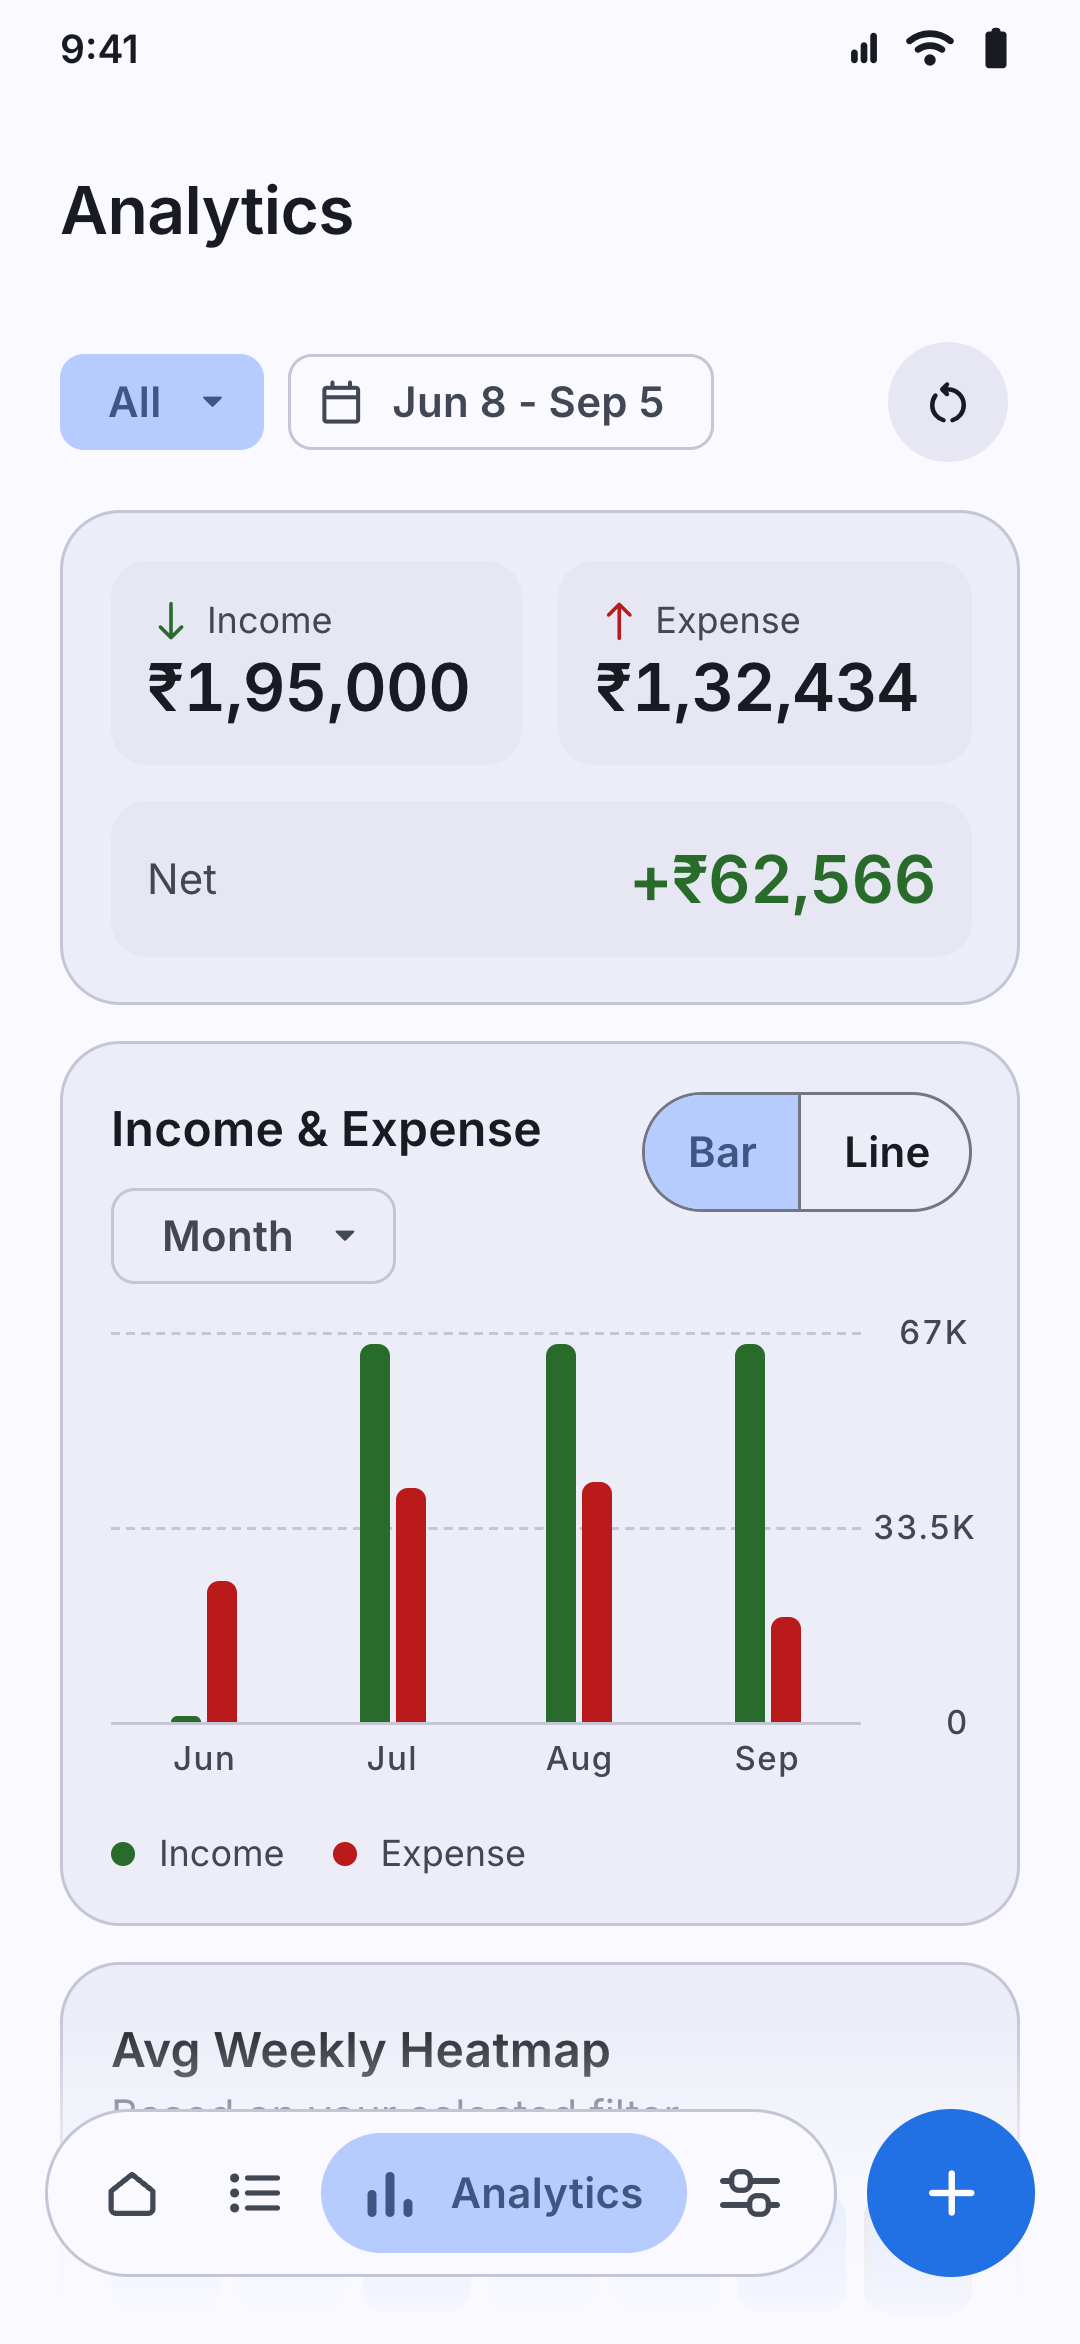
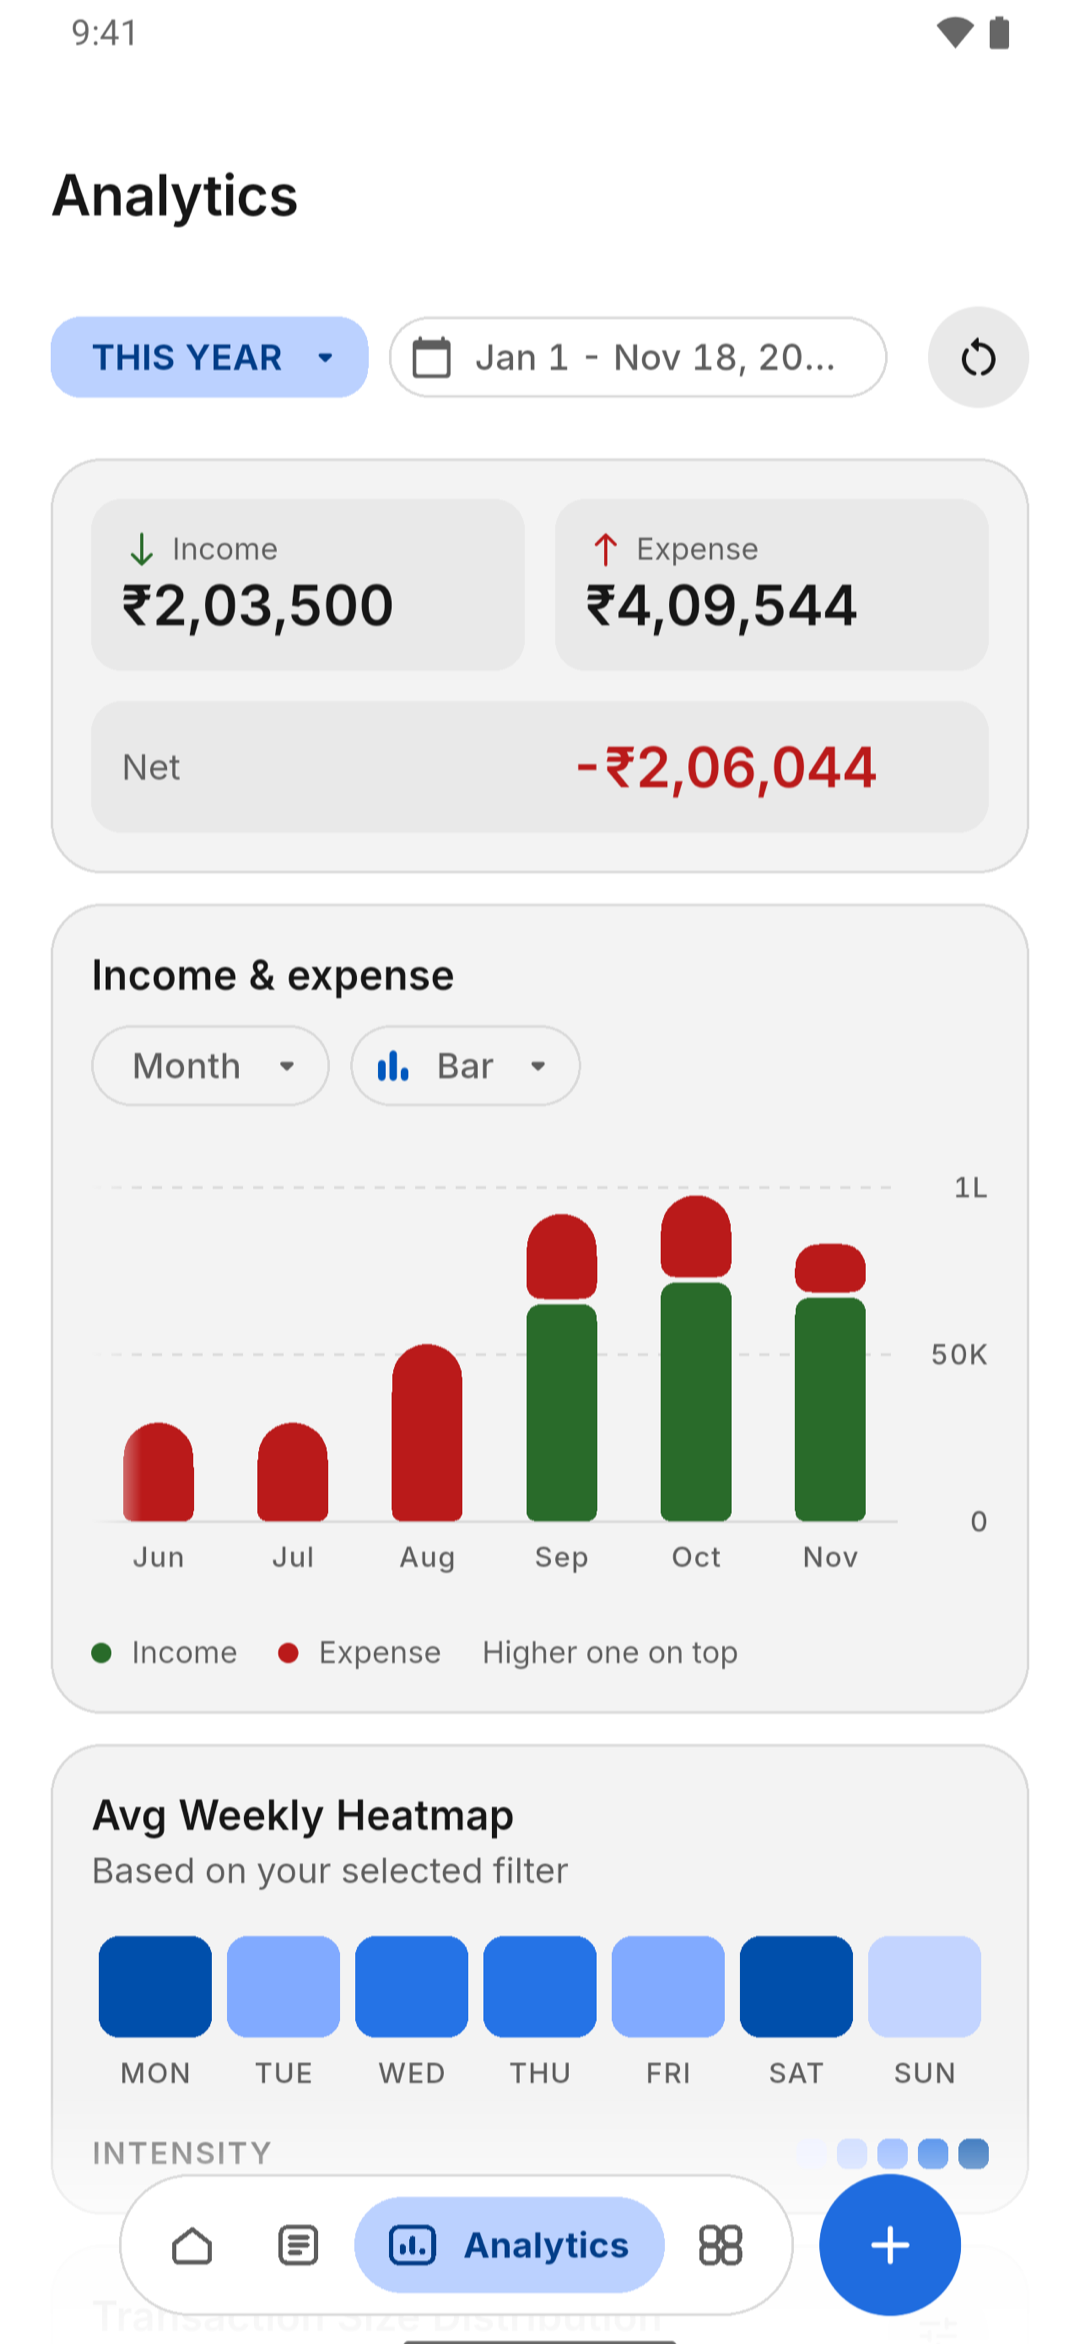
docs(v7.0.0): 7.0.0 release notes, 14-day Pro trial, new Income & expense chart
Changelog entry for 7.0.0+71, Kuber Pro page describes the app's free
trial, Analytics page describes the new chart, with new screenshots.

diff --git a/src/lib/screenshots.ts b/src/lib/screenshots.ts
@@ -34,7 +34,7 @@ const ALT: Record<string, string> = {
   'custom-dashboard/06-stacked-bars': 'Stacked bars with a tooltip for September showing Dining, Fuel, the total and View transactions',
   'custom-dashboard/07-heatmap': 'Calendar heatmap with one day picked, its total and View transactions',
   'custom-dashboard/08-donut-detail': 'Donut with Dining picked: 57 percent in the centre, the amount and View transactions',
-  'detailed-analytics/01-income-expense-chart': 'Analytics summary with the income and expense bar chart',
+  'detailed-analytics/01-income-expense-chart': 'Analytics with the income and expense chart: one column per month, the higher amount on top',
   'detailed-analytics/02-weekly-heatmap': 'Analytics scrolled to the average weekly spending heatmap',
   'detailed-analytics/03-transaction-size-and-categories': 'Analytics showing transaction sizes and spending by category',
   'detailed-analytics/04-tag-analytics-and-biggest-txns': 'Analytics showing tag-wise spending and the biggest transactions',
@@ -66,7 +66,7 @@ const ALT: Record<string, string> = {
   'powerful-filtering/03-category-filters': 'History filters scrolled to categories, with three selected',
   'privacy-mode/01-privacy-mode-masked': 'Home with privacy mode on and every amount hidden',
   'privacy-mode/02-privacy-quick-actions': 'Quick Actions sheet with the Privacy Mode tile switched on',
-  'pro-plans/01-pro-plans': 'Kuber Pro screen listing what Pro includes',
+  'pro-plans/01-pro-plans': 'Kuber Pro screen offering 14 days of Pro free, above the plans',
   'quick-add/01-home-widget': 'Quick Add widget on Home with two transactions typed in one line',
   'quick-add/02-parsed-transactions': 'Quick Add detecting two transactions, Movies and a new Trip category',
   'quick-add/03-voice-add': 'Voice Quick Add listening, with the spoken words shown as text',

diff --git a/content/changelog/2026-11-18-v7-0-0-b71.md b/content/changelog/2026-11-18-v7-0-0-b71.md
@@ -1,0 +1,35 @@
+---
+title: "Free Pro Trial, New Charts & Smoother Motion"
+date: 2026-11-18T12:00:00+05:30
+version: "7.0.0"
+latest: true
+summary: "Try Kuber Pro free for 14 days, a new Income & expense chart, a tappable Home balance card, Custom dashboards, smooth motion with a Motion setting, Quick navigation and a smaller app."
+new:
+  - "Try Kuber Pro free for 14 days, no payment needed"
+  - "New Income & expense chart: saved or overspent at a glance"
+  - "Tap income or expense on Home to compare with last month"
+  - "Custom dashboards: your own charts from any search"
+  - "Smooth motion everywhere, with a Motion setting"
+  - "Quick navigation: tap a page title to jump back"
+  - "Auto-recorded EMIs, SIPs and recurring payments link to their source"
+  - "Smaller app that works fully offline"
+  - "Custom dashboards are much faster with years of data"
+bugsFixed:
+  - "Fixed repeated and cut-off month labels on the chart"
+  - "Restoring a backup keeps your Kuber Pro plan"
+---
+
+New:
+• Try Kuber Pro free for 14 days, no payment needed
+• New Income & expense chart: saved or overspent at a glance
+• Tap income or expense on Home to compare with last month
+• Custom dashboards: your own charts from any search
+• Smooth motion everywhere, with a Motion setting
+• Quick navigation: tap a page title to jump back
+• Auto-recorded EMIs, SIPs and recurring payments link to their source
+• Smaller app that works fully offline
+• Custom dashboards are much faster with years of data
+
+Bugs fixed:
+• Fixed repeated and cut-off month labels on the chart
+• Restoring a backup keeps your Kuber Pro plan

diff --git a/content/features/detailed-analytics.md b/content/features/detailed-analytics.md
@@ -28,7 +28,7 @@ Gain a complete understanding of your money habits with a mix of free core visua
 ### Core Analytics (Free for Everyone)
 The dedicated Analytics tab in Kuber provides instant, interactive insights without requiring a paid subscription:
 
-- **Income and Expense Comparisons**: Toggle between Day, Week, or Month scales, and switch between Bar or Line charts to track net cash flow across any date range.
+- **Income and Expense Chart**: One column per period. The higher of income and expense sits on top, so green on top means you saved and red means you overspent. Tap or long-press a column for the exact amounts, switch between Bar and Line, pick Day, Week or Month, and scroll back through older periods. On Home, the same chart shows the last 7 days, 6 months or a year.
 - **Average Weekly Heatmap**: See which days of the week you spend the most, complete with intensity blocks and precise daily average figures.
 - **Transaction Size Distribution**: Understand your spending profile across ticket sizes: Small (<₹500), Medium (₹500 - ₹2,000), and Large (>₹2,000).
 - **Spending by Category and Group**: Interactive donut charts highlighting category share percentages, totals, and group-level rollups.

diff --git a/content/features/pro-plans.md b/content/features/pro-plans.md
@@ -53,7 +53,8 @@ Kuber is an offline, private finance app funded directly by the people who use i
 - **No Limits on Storage**:
   - Keep unlimited private notes and store as many payment cards as you need in Kuber Cards.
 - **Free Trial and Plans**:
-  - Monthly, yearly or a one-time Lifetime purchase, billed through Google Play. New yearly customers get a 14-day free trial.
+  - Try every Pro feature free for 14 days, once per phone. New users get it when setup ends; existing free users can claim it from Home or the Kuber Pro page. No payment and nothing to cancel. When it ends, your data stays and Pro features go back to their free limits.
+  - Monthly, yearly or a one-time Lifetime purchase, billed through Google Play. Buying during the trial starts your plan straight away.
 - **Solo Developer Backing**:
   - Every purchase directly funds the solo developer building Kuber as a privacy-focused, ad-free, account-free finance app.
 - **Promo Code Redemption**:

diff --git a/content/changelog/2026-11-08-v6-7-0-b70.md b/content/changelog/2026-11-08-v6-7-0-b70.md
@@ -2,7 +2,7 @@
 title: "Multi-Part Loans, Daily Interest & Settings Redesign"
 date: 2026-11-08T17:07:54+05:30
 version: "6.7.0"
-latest: true
+latest: false
 summary: "Loans that grow in parts with daily interest calculation, redesigned grouped Settings, expanded More search, navigation path history, and fresh themes."
 new:
   - "Multi-part loans: track tranches & interest on releases"
